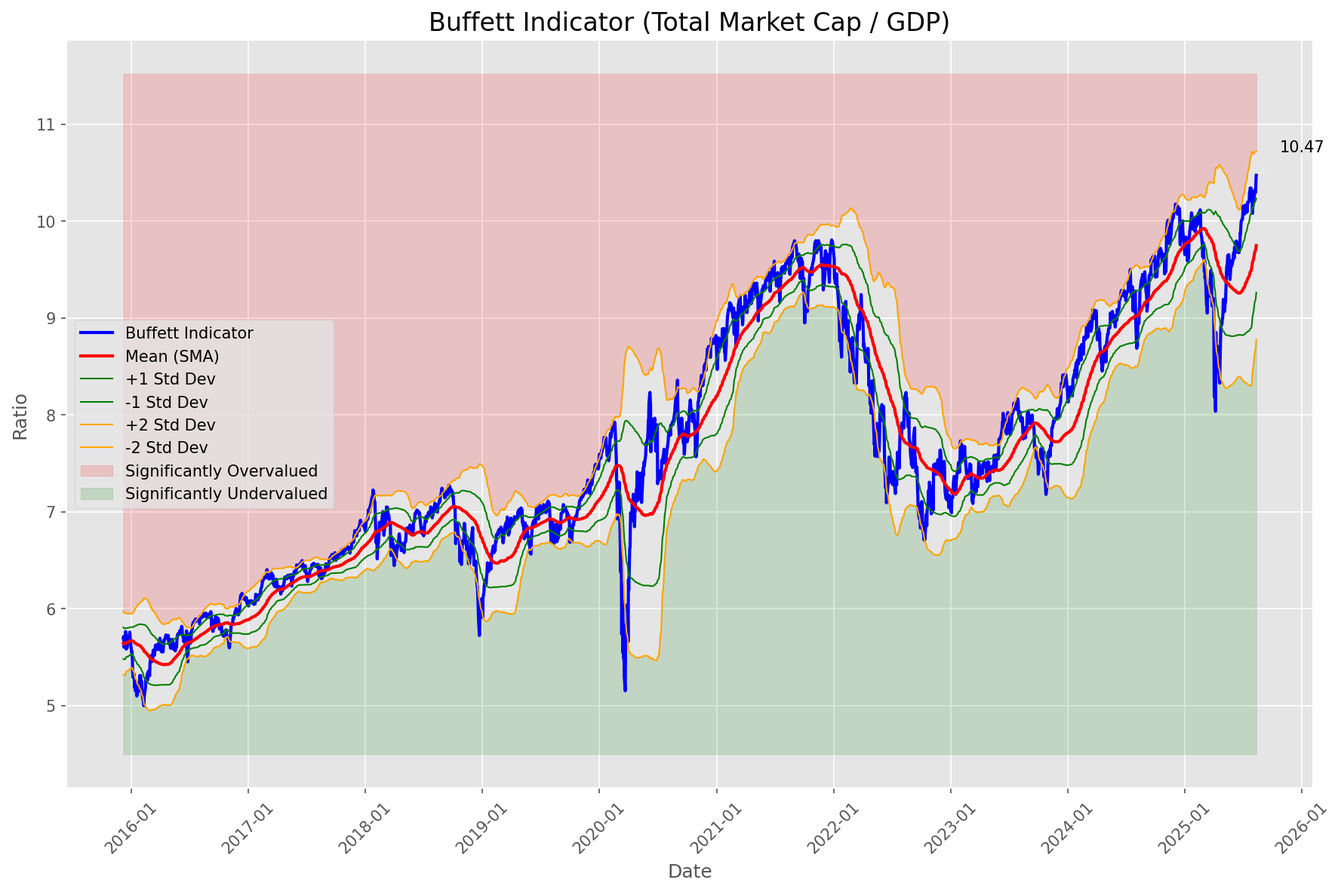
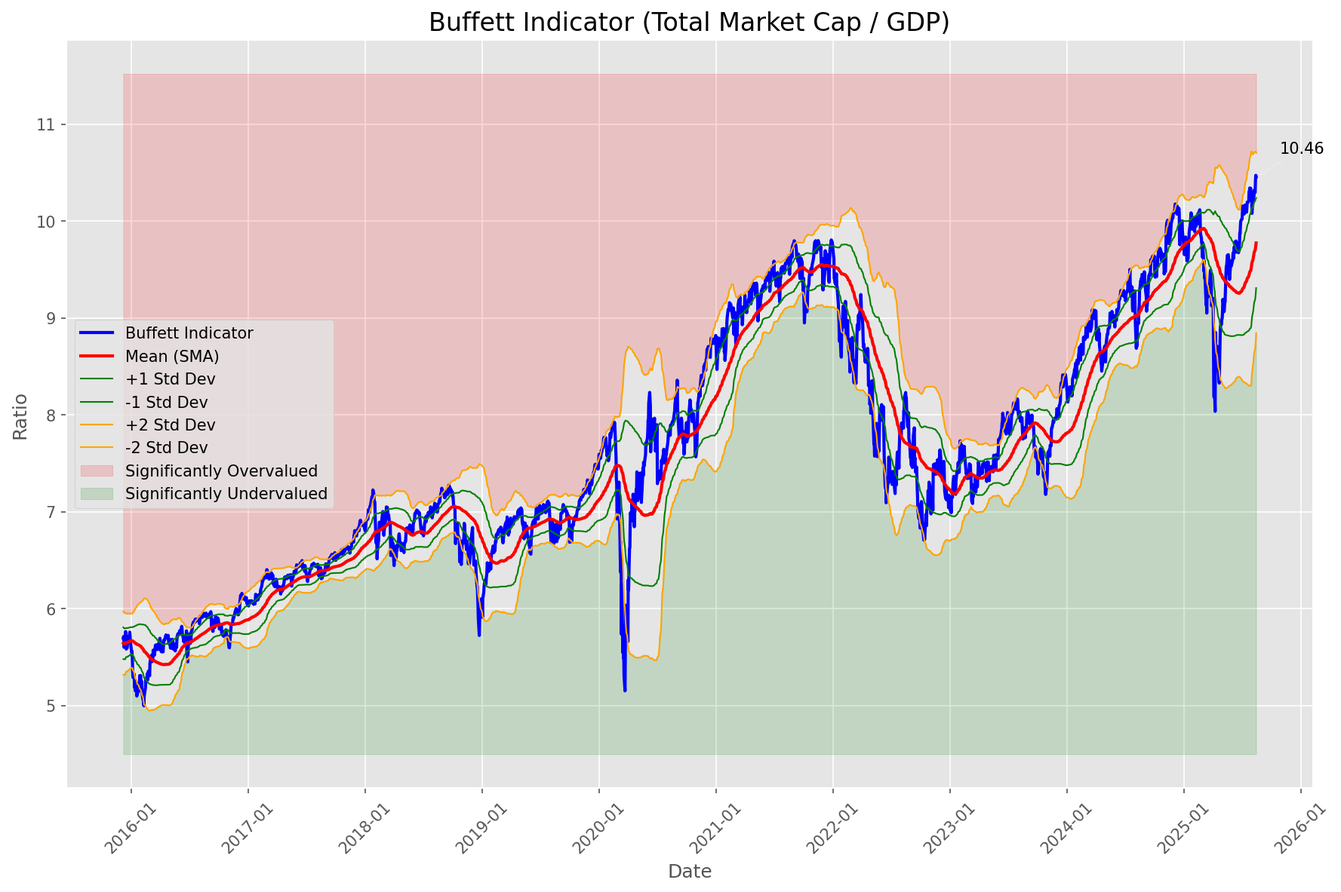
Add market report for 2025-08-15

diff --git a/oneil_relative_strength_report_2025-08-15.md b/oneil_relative_strength_report_2025-08-15.md
@@ -9,11 +9,11 @@
 | Metric | Value |
 |--------|-------|
 | **Market Valuation** | **Overvalued** |
-| **Current Ratio** | 10.46 |
-| **Historical Mean** | 9.75 |
-| **Standard Deviation** | 0.49 |
-| **Z-Score (StdDev from Mean)** | 1.49 |
-| **Total Market Cap** | $317.19 trillion |
+| **Current Ratio** | 10.44 |
+| **Historical Mean** | 9.77 |
+| **Standard Deviation** | 0.46 |
+| **Z-Score (StdDev from Mean)** | 1.47 |
+| **Total Market Cap** | $316.75 trillion |
 | **GDP** | $30.33 trillion |
 
 ## **Market Insights**
@@ -49,41 +49,41 @@ Based on William O'Neil's Relative Strength Methodology
 
 | ETF | Strength | RS Rating | Performance | Above Key MAs | Trend | Sector |
 |-----|----------|-----------|-------------|--------------|-------|--------|
+| [ARKW](https://www.tradingview.com/chart/?symbol=ARKW) | 97.0 | 94.0 | 33.98% | 10d ✓, 50d ✓, 200d ✓ | ↗ | Next Generation Internet |
+| [ARKK](https://www.tradingview.com/chart/?symbol=ARKK) | 97.0 | 94.0 | 35.71% | 10d ✓, 50d ✓, 200d ✓ | ↗ | Innovation |
 | [ARKF](https://www.tradingview.com/chart/?symbol=ARKF) | 96.5 | 93.0 | 32.02% | 10d ✓, 50d ✓, 200d ✓ | ↗ | Fintech Innovation |
-| [ARKW](https://www.tradingview.com/chart/?symbol=ARKW) | 96.5 | 93.0 | 33.98% | 10d ✓, 50d ✓, 200d ✓ | ↗ | Next Generation Internet |
-| [ARKK](https://www.tradingview.com/chart/?symbol=ARKK) | 96.5 | 93.0 | 33.86% | 10d ✓, 50d ✓, 200d ✓ | ↗ | Innovation |
-| [BLOK](https://www.tradingview.com/chart/?symbol=BLOK) | 94.5 | 89.0 | 26.21% | 10d ✓, 50d ✓, 200d ✓ | ↗ | Blockchain & Cryptocurrency |
-| [SLV](https://www.tradingview.com/chart/?symbol=SLV) | 91.0 | 82.0 | 17.95% | 10d ✓, 50d ✓, 200d ✓ | ↗ | Silver |
-| [XLK](https://www.tradingview.com/chart/?symbol=XLK) | 88.5 | 77.0 | 14.35% | 10d ✓, 50d ✓, 200d ✓ | ↗ | Technology |
-| [URA](https://www.tradingview.com/chart/?symbol=URA) | 87.6 | 95.0 | 38.65% | 10d ✗, 50d ✓, 200d ✓ | ↗ | Uranium |
-| [JETS](https://www.tradingview.com/chart/?symbol=JETS) | 86.5 | 73.0 | 12.29% | 10d ✓, 50d ✓, 200d ✓ | ↗ | Airlines |
-| [PAVE](https://www.tradingview.com/chart/?symbol=PAVE) | 85.0 | 70.0 | 11.21% | 10d ✓, 50d ✓, 200d ✓ | ↗ | Infrastructure |
-| [XLC](https://www.tradingview.com/chart/?symbol=XLC) | 84.0 | 68.0 | 10.44% | 10d ✓, 50d ✓, 200d ✓ | ↗ | Communications |
-| [AIQ](https://www.tradingview.com/chart/?symbol=AIQ) | 84.0 | 68.0 | 10.34% | 10d ✓, 50d ✓, 200d ✓ | ↗ | Artificial Intelligence & Technology |
-| [IYZ](https://www.tradingview.com/chart/?symbol=IYZ) | 82.5 | 65.0 | 9.34% | 10d ✓, 50d ✓, 200d ✓ | ↗ | Telecommunications |
-| [XLI](https://www.tradingview.com/chart/?symbol=XLI) | 79.5 | 59.0 | 7.49% | 10d ✓, 50d ✓, 200d ✓ | ↗ | Industrial |
-| [XLY](https://www.tradingview.com/chart/?symbol=XLY) | 77.0 | 54.0 | 6.24% | 10d ✓, 50d ✓, 200d ✓ | ↗ | Consumer Discretionary |
-| [KWEB](https://www.tradingview.com/chart/?symbol=KWEB) | 73.0 | 46.0 | 3.98% | 10d ✓, 50d ✓, 200d ✓ | ↗ | Chinese Internet |
-| [XLF](https://www.tradingview.com/chart/?symbol=XLF) | 73.0 | 46.0 | 4.06% | 10d ✓, 50d ✓, 200d ✓ | ↗ | Financial |
-| [SOXX](https://www.tradingview.com/chart/?symbol=SOXX) | 71.5 | 83.0 | 18.32% | 10d ✓, 50d ✓, 200d ✓ | ↘ | Semiconductors |
-| [ARKG](https://www.tradingview.com/chart/?symbol=ARKG) | 71.5 | 83.0 | 18.69% | 10d ✓, 50d ✓, 200d ✓ | ↘ | Genomics |
-| [XLU](https://www.tradingview.com/chart/?symbol=XLU) | 70.6 | 61.0 | 8.28% | 10d ✗, 50d ✓, 200d ✓ | ↗ | Utilities |
-| [ITB](https://www.tradingview.com/chart/?symbol=ITB) | 70.5 | 81.0 | 17.39% | 10d ✓, 50d ✓, 200d ✓ | ↘ | Home Construction |
-| [IBB](https://www.tradingview.com/chart/?symbol=IBB) | 70.5 | 81.0 | 17.41% | 10d ✓, 50d ✓, 200d ✓ | ↘ | Biotechnology |
-| [ICLN](https://www.tradingview.com/chart/?symbol=ICLN) | 56.0 | 52.0 | 5.65% | 10d ✓, 50d ✓, 200d ✓ | ↘ | Clean Energy |
-| [XLB](https://www.tradingview.com/chart/?symbol=XLB) | 55.5 | 51.0 | 5.55% | 10d ✓, 50d ✓, 200d ✓ | ↘ | Materials |
-| [GLD](https://www.tradingview.com/chart/?symbol=GLD) | 54.2 | 48.0 | 4.81% | 10d ✗, 50d ✗, 200d ✓ | ↗ | Gold |
-| [IYT](https://www.tradingview.com/chart/?symbol=IYT) | 52.5 | 45.0 | 3.80% | 10d ✓, 50d ✓, 200d ✓ | ↘ | Transportation |
-| [DBA](https://www.tradingview.com/chart/?symbol=DBA) | 52.3 | 25.0 | -1.44% | 10d ✓, 50d ✓, 200d ✗ | ↗ | Agriculture |
-| [XLP](https://www.tradingview.com/chart/?symbol=XLP) | 51.0 | 42.0 | 2.99% | 10d ✓, 50d ✓, 200d ✓ | ↘ | Consumer Staples |
-| [CIBR](https://www.tradingview.com/chart/?symbol=CIBR) | 49.7 | 39.0 | 2.03% | 10d ✗, 50d ✗, 200d ✓ | ↗ | Cybersecurity |
-| [XLV](https://www.tradingview.com/chart/?symbol=XLV) | 42.8 | 46.0 | 4.03% | 10d ✓, 50d ✓, 200d ✗ | ↘ | Healthcare |
-| [TLT](https://www.tradingview.com/chart/?symbol=TLT) | 29.4 | 39.0 | 1.99% | 10d ✗, 50d ✓, 200d ✗ | ↘ | Long-term Treasuries |
-| [XLE](https://www.tradingview.com/chart/?symbol=XLE) | 25.9 | 32.0 | 0.36% | 10d ✓, 50d ✗, 200d ✗ | ↘ | Energy |
-| [BIL](https://www.tradingview.com/chart/?symbol=BIL) | 24.4 | 29.0 | 0.03% | 10d ✓, 50d ✗, 200d ✗ | ↘ | Short-term Treasuries |
-| [UUP](https://www.tradingview.com/chart/?symbol=UUP) | 22.4 | 25.0 | -1.58% | 10d ✗, 50d ✓, 200d ✗ | ↘ | U.S. Dollar |
-| [IYR](https://www.tradingview.com/chart/?symbol=IYR) | 20.0 | 40.0 | 2.17% | 10d ✗, 50d ✗, 200d ✗ | ↘ | Real Estate |
-| [DBC](https://www.tradingview.com/chart/?symbol=DBC) | 19.0 | 38.0 | 1.68% | 10d ✗, 50d ✗, 200d ✗ | ↘ | Commodities |
+| [BLOK](https://www.tradingview.com/chart/?symbol=BLOK) | 95.0 | 90.0 | 26.21% | 10d ✓, 50d ✓, 200d ✓ | ↗ | Blockchain & Cryptocurrency |
+| [SOXX](https://www.tradingview.com/chart/?symbol=SOXX) | 90.5 | 81.0 | 17.35% | 10d ✓, 50d ✓, 200d ✓ | ↗ | Semiconductors |
+| [JETS](https://www.tradingview.com/chart/?symbol=JETS) | 88.0 | 76.0 | 13.84% | 10d ✓, 50d ✓, 200d ✓ | ↗ | Airlines |
+| [XLK](https://www.tradingview.com/chart/?symbol=XLK) | 88.0 | 76.0 | 13.55% | 10d ✓, 50d ✓, 200d ✓ | ↗ | Technology |
+| [URA](https://www.tradingview.com/chart/?symbol=URA) | 87.1 | 94.0 | 37.74% | 10d ✗, 50d ✓, 200d ✓ | ↗ | Uranium |
+| [PAVE](https://www.tradingview.com/chart/?symbol=PAVE) | 85.5 | 71.0 | 11.21% | 10d ✓, 50d ✓, 200d ✓ | ↗ | Infrastructure |
+| [XLC](https://www.tradingview.com/chart/?symbol=XLC) | 85.0 | 70.0 | 10.76% | 10d ✓, 50d ✓, 200d ✓ | ↗ | Communications |
+| [AIQ](https://www.tradingview.com/chart/?symbol=AIQ) | 85.0 | 70.0 | 10.99% | 10d ✓, 50d ✓, 200d ✓ | ↗ | Artificial Intelligence & Technology |
+| [IYZ](https://www.tradingview.com/chart/?symbol=IYZ) | 83.0 | 66.0 | 9.34% | 10d ✓, 50d ✓, 200d ✓ | ↗ | Telecommunications |
+| [KWEB](https://www.tradingview.com/chart/?symbol=KWEB) | 81.0 | 62.0 | 8.19% | 10d ✓, 50d ✓, 200d ✓ | ↗ | Chinese Internet |
+| [SLV](https://www.tradingview.com/chart/?symbol=SLV) | 80.1 | 80.0 | 16.14% | 10d ✗, 50d ✓, 200d ✓ | ↗ | Silver |
+| [XLY](https://www.tradingview.com/chart/?symbol=XLY) | 78.0 | 56.0 | 6.45% | 10d ✓, 50d ✓, 200d ✓ | ↗ | Consumer Discretionary |
+| [ARKG](https://www.tradingview.com/chart/?symbol=ARKG) | 72.0 | 84.0 | 19.09% | 10d ✓, 50d ✓, 200d ✓ | ↘ | Genomics |
+| [XLF](https://www.tradingview.com/chart/?symbol=XLF) | 72.0 | 44.0 | 2.86% | 10d ✓, 50d ✓, 200d ✓ | ↗ | Financial |
+| [ITB](https://www.tradingview.com/chart/?symbol=ITB) | 70.0 | 80.0 | 16.38% | 10d ✓, 50d ✓, 200d ✓ | ↘ | Home Construction |
+| [IBB](https://www.tradingview.com/chart/?symbol=IBB) | 69.5 | 79.0 | 15.58% | 10d ✓, 50d ✓, 200d ✓ | ↘ | Biotechnology |
+| [XLI](https://www.tradingview.com/chart/?symbol=XLI) | 67.1 | 54.0 | 5.90% | 10d ✗, 50d ✓, 200d ✓ | ↗ | Industrial |
+| [XLU](https://www.tradingview.com/chart/?symbol=XLU) | 66.1 | 52.0 | 5.26% | 10d ✗, 50d ✓, 200d ✓ | ↗ | Utilities |
+| [DBA](https://www.tradingview.com/chart/?symbol=DBA) | 62.0 | 24.0 | -2.63% | 10d ✓, 50d ✓, 200d ✓ | ↗ | Agriculture |
+| [ICLN](https://www.tradingview.com/chart/?symbol=ICLN) | 56.5 | 53.0 | 5.65% | 10d ✓, 50d ✓, 200d ✓ | ↘ | Clean Energy |
+| [XLB](https://www.tradingview.com/chart/?symbol=XLB) | 54.5 | 49.0 | 4.46% | 10d ✓, 50d ✓, 200d ✓ | ↘ | Materials |
+| [IYT](https://www.tradingview.com/chart/?symbol=IYT) | 53.5 | 47.0 | 3.80% | 10d ✓, 50d ✓, 200d ✓ | ↘ | Transportation |
+| [GLD](https://www.tradingview.com/chart/?symbol=GLD) | 52.7 | 45.0 | 3.22% | 10d ✗, 50d ✗, 200d ✓ | ↗ | Gold |
+| [CIBR](https://www.tradingview.com/chart/?symbol=CIBR) | 48.2 | 36.0 | 1.06% | 10d ✗, 50d ✗, 200d ✓ | ↗ | Cybersecurity |
+| [BIL](https://www.tradingview.com/chart/?symbol=BIL) | 45.5 | 31.0 | 0.06% | 10d ✓, 50d ✓, 200d ✓ | ↘ | Short-term Treasuries |
+| [XLV](https://www.tradingview.com/chart/?symbol=XLV) | 43.3 | 47.0 | 3.81% | 10d ✓, 50d ✓, 200d ✗ | ↘ | Healthcare |
+| [XLP](https://www.tradingview.com/chart/?symbol=XLP) | 37.6 | 35.0 | 0.80% | 10d ✗, 50d ✓, 200d ✓ | ↘ | Consumer Staples |
+| [TLT](https://www.tradingview.com/chart/?symbol=TLT) | 27.4 | 35.0 | 0.73% | 10d ✗, 50d ✓, 200d ✗ | ↘ | Long-term Treasuries |
+| [XLE](https://www.tradingview.com/chart/?symbol=XLE) | 24.9 | 30.0 | -0.11% | 10d ✓, 50d ✗, 200d ✗ | ↘ | Energy |
+| [UUP](https://www.tradingview.com/chart/?symbol=UUP) | 22.4 | 25.0 | -1.74% | 10d ✗, 50d ✓, 200d ✗ | ↘ | U.S. Dollar |
+| [DBC](https://www.tradingview.com/chart/?symbol=DBC) | 20.0 | 40.0 | 1.68% | 10d ✗, 50d ✗, 200d ✗ | ↘ | Commodities |
+| [IYR](https://www.tradingview.com/chart/?symbol=IYR) | 17.0 | 34.0 | 0.61% | 10d ✗, 50d ✗, 200d ✗ | ↘ | Real Estate |
 
 ### **Sector ETF Performance Interpretation**
 
@@ -98,168 +98,192 @@ This table shows the relative strength metrics for different market sectors base
 
 ### **Current Sector Leadership**
 
-The current market leadership is coming from the following sectors: **Fintech Innovation, Next Generation Internet, Innovation**.
+The current market leadership is coming from the following sectors: **Next Generation Internet, Innovation, Fintech Innovation**.
 
-The **Fintech Innovation** sector (represented by **ARKF**) is showing particularly strong relative strength with an RS rating of 93.0 and performance of 32.02% vs. the S&P 500. This sector is trading above its 10-day, 50-day, 200-day moving average(s). Investors should consider focusing on high RS stocks within these leading sectors for potential outperformance.
+The **Next Generation Internet** sector (represented by **ARKW**) is showing particularly strong relative strength with an RS rating of 94.0 and performance of 33.98% vs. the S&P 500. This sector is trading above its 10-day, 50-day, 200-day moving average(s). Investors should consider focusing on high RS stocks within these leading sectors for potential outperformance.
 
 ---
 
 ## **Buy Recommendations**
 
-The following 59 stocks show exceptional relative strength:
+The following 50 stocks show exceptional relative strength:
 
 | RS Rating | Buy Score | Current Price | Chart | Name | Ticker |
 |-----------|-----------|---------------|-------|------|--------|
-| 100 | 100 | $110.71 | [Chart](https://www.tradingview.com/chart/?symbol=HOOD) | Robinhood Markets, Inc. Class A Common Stock | HOOD |
-| 100 | 100 | $117.33 | [Chart](https://www.tradingview.com/chart/?symbol=CRDO) | Credo Technology Group Holding Ltd Ordinary Shares | CRDO |
-| 100 | 100 | $76.58 | [Chart](https://www.tradingview.com/chart/?symbol=MP) | MP Materials Corp. | MP |
-| 100 | 100 | $69.12 | [Chart](https://www.tradingview.com/chart/?symbol=KTOS) | Kratos Defense & Security Solutions, Inc. | KTOS |
-| 100 | 100 | $68.46 | [Chart](https://www.tradingview.com/chart/?symbol=NBIS) | Nebius Group N.V. Class A Ordinary Shares | NBIS |
+| 100 | 100 | $68.04 | [Chart](https://www.tradingview.com/chart/?symbol=KTOS) | Kratos Defense & Security Solutions, Inc. | KTOS |
+| 100 | 100 | $112.41 | [Chart](https://www.tradingview.com/chart/?symbol=HOOD) | Robinhood Markets, Inc. Class A Common Stock | HOOD |
+| 100 | 100 | $74.45 | [Chart](https://www.tradingview.com/chart/?symbol=MP) | MP Materials Corp. | MP |
+| 100 | 100 | $69.90 | [Chart](https://www.tradingview.com/chart/?symbol=NBIS) | Nebius Group N.V. Class A Ordinary Shares | NBIS |
 | 99 | 100 | $96.48 | [Chart](https://www.tradingview.com/chart/?symbol=RYTM) | Rhythm Pharmaceuticals, Inc. Common Stock | RYTM |
+| 99 | 100 | $174.68 | [Chart](https://www.tradingview.com/chart/?symbol=FUTU) | Futu Holdings Limited American Depositary Shares | FUTU |
+| 99 | 100 | $25.95 | [Chart](https://www.tradingview.com/chart/?symbol=TME) | Tencent Music Entertainment Group American Depositary Shares, each representing two Class A Ordinary Shares | TME |
 | 98 | 100 | $380.60 | [Chart](https://www.tradingview.com/chart/?symbol=TLN) | Talen Energy Corporation Common Stock | TLN |
-| 98 | 100 | $174.75 | [Chart](https://www.tradingview.com/chart/?symbol=FUTU) | Futu Holdings Limited American Depositary Shares | FUTU |
+| 97 | 100 | $67.23 | [Chart](https://www.tradingview.com/chart/?symbol=MRCY) | Mercury Systems Inc. | MRCY |
 | 97 | 100 | $193.60 | [Chart](https://www.tradingview.com/chart/?symbol=COOP) | Mr. Cooper Group Inc. Common Stock | COOP |
-| 97 | 100 | $60.36 | [Chart](https://www.tradingview.com/chart/?symbol=GH) | Guardant Health, Inc. Common Stock | GH |
-| 97 | 100 | $66.83 | [Chart](https://www.tradingview.com/chart/?symbol=MRCY) | Mercury Systems Inc. | MRCY |
-| 97 | 100 | $85.33 | [Chart](https://www.tradingview.com/chart/?symbol=LIF) | Life360, Inc. Common Stock | LIF |
-| 97 | 100 | $25.52 | [Chart](https://www.tradingview.com/chart/?symbol=TME) | Tencent Music Entertainment Group American Depositary Shares, each representing two Class A Ordinary Shares | TME |
-| 96 | 100 | $98.48 | [Chart](https://www.tradingview.com/chart/?symbol=EBAY) | eBay Inc | EBAY |
-| 96 | 100 | $24.53 | [Chart](https://www.tradingview.com/chart/?symbol=ACAD) | Acadia Pharmaceuticals Inc. | ACAD |
-| 95 | 100 | $31.41 | [Chart](https://www.tradingview.com/chart/?symbol=PAAS) | Pan American Silver Corp. | PAAS |
-| 95 | 100 | $57.42 | [Chart](https://www.tradingview.com/chart/?symbol=BTI) | British American Tobacco p.l.c. American Depositary Shares, American Depositary Shares, each representing one Ordinary Share | BTI |
-| 95 | 100 | $26.09 | [Chart](https://www.tradingview.com/chart/?symbol=LQDA) | Liquidia Corporation Common Stock | LQDA |
+| 96 | 100 | $24.98 | [Chart](https://www.tradingview.com/chart/?symbol=ACAD) | Acadia Pharmaceuticals Inc. | ACAD |
+| 96 | 100 | $84.34 | [Chart](https://www.tradingview.com/chart/?symbol=LIF) | Life360, Inc. Common Stock | LIF |
 | 95 | 100 | $99.34 | [Chart](https://www.tradingview.com/chart/?symbol=TPB) | Turning Point Brands, Inc. | TPB |
-| 95 | 100 | $181.02 | [Chart](https://www.tradingview.com/chart/?symbol=PLTR) | Palantir Technologies Inc. Class A Common Stock | PLTR |
 | 95 | 100 | $123.78 | [Chart](https://www.tradingview.com/chart/?symbol=PPLT) | abrdn Physical Platinum Shares ETF | PPLT |
+| 95 | 100 | $99.42 | [Chart](https://www.tradingview.com/chart/?symbol=EBAY) | eBay Inc | EBAY |
+| 94 | 100 | $160.01 | [Chart](https://www.tradingview.com/chart/?symbol=ARKW) | ARK Next Generation Internet ETF | ARKW |
+| 94 | 100 | $75.08 | [Chart](https://www.tradingview.com/chart/?symbol=WNS) | WNS (Holdings) Limited | WNS |
+| 94 | 100 | $53.82 | [Chart](https://www.tradingview.com/chart/?symbol=SIL) | Global X Silver Miners ETF (NEW) | SIL |
 | 94 | 100 | $30.63 | [Chart](https://www.tradingview.com/chart/?symbol=OR) | OR Royalties Inc. | OR |
-| 94 | 100 | $74.95 | [Chart](https://www.tradingview.com/chart/?symbol=WNS) | WNS (Holdings) Limited | WNS |
-| 94 | 100 | $53.80 | [Chart](https://www.tradingview.com/chart/?symbol=SIL) | Global X Silver Miners ETF (NEW) | SIL |
-| 93 | 100 | $160.01 | [Chart](https://www.tradingview.com/chart/?symbol=ARKW) | ARK Next Generation Internet ETF | ARKW |
-| 93 | 100 | $36.78 | [Chart](https://www.tradingview.com/chart/?symbol=DB) | Deutsche Bank Aktiengesellschaft | DB |
+| 94 | 100 | $31.39 | [Chart](https://www.tradingview.com/chart/?symbol=PAAS) | Pan American Silver Corp. | PAAS |
+| 94 | 100 | $25.98 | [Chart](https://www.tradingview.com/chart/?symbol=LQDA) | Liquidia Corporation Common Stock | LQDA |
 | 93 | 100 | $54.51 | [Chart](https://www.tradingview.com/chart/?symbol=ARKF) | ARK Fintech Innovation ETF | ARKF |
-| 93 | 100 | $31.18 | [Chart](https://www.tradingview.com/chart/?symbol=SRAD) | Sportradar Group AG Class A Ordinary Shares | SRAD |
-| 92 | 100 | $25.81 | [Chart](https://www.tradingview.com/chart/?symbol=TFPM) | Triple Flag Precious Metals Corp. | TFPM |
-| 91 | 100 | $22.85 | [Chart](https://www.tradingview.com/chart/?symbol=MAG) | MAG Silver Corp. | MAG |
-| 91 | 100 | $60.02 | [Chart](https://www.tradingview.com/chart/?symbol=VIK) | Viking Holdings Ltd | VIK |
-| 90 | 100 | $53.94 | [Chart](https://www.tradingview.com/chart/?symbol=FHI) | Federated Hermes, Inc. | FHI |
-| 90 | 100 | $95.46 | [Chart](https://www.tradingview.com/chart/?symbol=C) | Citigroup Inc. | C |
-| 88 | 100 | $269.75 | [Chart](https://www.tradingview.com/chart/?symbol=IDCC) | InterDigital, Inc. | IDCC |
-| 88 | 100 | $163.82 | [Chart](https://www.tradingview.com/chart/?symbol=VSEC) | VSE Corp | VSEC |
-| 89 | 99 | $67.15 | [Chart](https://www.tradingview.com/chart/?symbol=MAIN) | Main Street Capital Corporation | MAIN |
+| 93 | 100 | $25.81 | [Chart](https://www.tradingview.com/chart/?symbol=TFPM) | Triple Flag Precious Metals Corp. | TFPM |
+| 92 | 100 | $60.35 | [Chart](https://www.tradingview.com/chart/?symbol=VIK) | Viking Holdings Ltd | VIK |
+| 92 | 100 | $36.69 | [Chart](https://www.tradingview.com/chart/?symbol=DB) | Deutsche Bank Aktiengesellschaft | DB |
+| 92 | 100 | $30.79 | [Chart](https://www.tradingview.com/chart/?symbol=SRAD) | Sportradar Group AG Class A Ordinary Shares | SRAD |
+| 91 | 100 | $22.88 | [Chart](https://www.tradingview.com/chart/?symbol=MAG) | MAG Silver Corp. | MAG |
+| 90 | 100 | $67.15 | [Chart](https://www.tradingview.com/chart/?symbol=MAIN) | Main Street Capital Corporation | MAIN |
+| 89 | 100 | $269.75 | [Chart](https://www.tradingview.com/chart/?symbol=IDCC) | InterDigital, Inc. | IDCC |
+| 89 | 100 | $38.37 | [Chart](https://www.tradingview.com/chart/?symbol=AS) | Amer Sports, Inc. | AS |
+| 88 | 100 | $161.98 | [Chart](https://www.tradingview.com/chart/?symbol=VSEC) | VSE Corp | VSEC |
 | 88 | 98 | $194.16 | [Chart](https://www.tradingview.com/chart/?symbol=AWI) | Armstrong World Industries, Inc. | AWI |
-| 88 | 98 | $312.30 | [Chart](https://www.tradingview.com/chart/?symbol=RCL) | Royal Caribbean Group | RCL |
+| 88 | 98 | $94.28 | [Chart](https://www.tradingview.com/chart/?symbol=C) | Citigroup Inc. | C |
+| 88 | 98 | $53.25 | [Chart](https://www.tradingview.com/chart/?symbol=FHI) | Federated Hermes, Inc. | FHI |
 | 86 | 98 | $93.18 | [Chart](https://www.tradingview.com/chart/?symbol=LLYVK) | Liberty Media Corporation Series C Liberty Live Common Stock | LLYVK |
-| 85 | 98 | $119.02 | [Chart](https://www.tradingview.com/chart/?symbol=GILD) | Gilead Sciences Inc | GILD |
 | 85 | 98 | $43.74 | [Chart](https://www.tradingview.com/chart/?symbol=LTM) | LATAM Airlines Group S.A. American Depositary Shares (each representing two thousand (2,000) shares of Common Stock) | LTM |
-| 84 | 98 | $20.55 | [Chart](https://www.tradingview.com/chart/?symbol=BCS) | Barclays PLC | BCS |
-| 85 | 97 | $37.92 | [Chart](https://www.tradingview.com/chart/?symbol=AS) | Amer Sports, Inc. | AS |
 | 85 | 96 | $250.36 | [Chart](https://www.tradingview.com/chart/?symbol=BAP) | Credicorp LTD | BAP |
-| 84 | 96 | $62.71 | [Chart](https://www.tradingview.com/chart/?symbol=SHLD) | Global X Defense Tech ETF | SHLD |
-| 82 | 96 | $40.39 | [Chart](https://www.tradingview.com/chart/?symbol=AHR) | American Healthcare REIT, Inc. | AHR |
-| 85 | 95 | $48.69 | [Chart](https://www.tradingview.com/chart/?symbol=FAST) | Fastenal Co | FAST |
-| 82 | 95 | $191.00 | [Chart](https://www.tradingview.com/chart/?symbol=TKO) | TKO Group Holdings, Inc. | TKO |
-| 84 | 94 | $12.89 | [Chart](https://www.tradingview.com/chart/?symbol=PSLV) | Sprott Physical Silver Trust | PSLV |
+| 83 | 96 | $118.46 | [Chart](https://www.tradingview.com/chart/?symbol=GILD) | Gilead Sciences Inc | GILD |
+| 83 | 95 | $15.99 | [Chart](https://www.tradingview.com/chart/?symbol=MUFG) | Mitsubishi UFJ Financial Group, Inc. | MUFG |
+| 82 | 95 | $190.28 | [Chart](https://www.tradingview.com/chart/?symbol=TKO) | TKO Group Holdings, Inc. | TKO |
+| 81 | 95 | $20.27 | [Chart](https://www.tradingview.com/chart/?symbol=BCS) | Barclays PLC | BCS |
 | 84 | 94 | $31.94 | [Chart](https://www.tradingview.com/chart/?symbol=IIIV) | i3 Verticals, Inc. Class A Common Stock | IIIV |
-| 83 | 94 | $24.96 | [Chart](https://www.tradingview.com/chart/?symbol=ING) | ING Groep N.V. American Depositary Shares | ING |
-| 82 | 93 | $36.20 | [Chart](https://www.tradingview.com/chart/?symbol=SIVR) | abrdn Physical Silver Shares ETF | SIVR |
-| 82 | 93 | $34.50 | [Chart](https://www.tradingview.com/chart/?symbol=SLV) | iShares Silver Trust | SLV |
+| 83 | 94 | $25.00 | [Chart](https://www.tradingview.com/chart/?symbol=ING) | ING Groep N.V. American Depositary Shares | ING |
+| 82 | 94 | $418.37 | [Chart](https://www.tradingview.com/chart/?symbol=CYBR) | CyberArk Software Ltd. | CYBR |
+| 83 | 93 | $434.34 | [Chart](https://www.tradingview.com/chart/?symbol=APP) | Applovin Corporation Class A Common Stock | APP |
 | 82 | 93 | $28.96 | [Chart](https://www.tradingview.com/chart/?symbol=CPS) | Cooper-Standard Automotive Inc. | CPS |
-| 81 | 93 | $414.53 | [Chart](https://www.tradingview.com/chart/?symbol=CYBR) | CyberArk Software Ltd. | CYBR |
 | 81 | 93 | $63.37 | [Chart](https://www.tradingview.com/chart/?symbol=CAKE) | Cheesecake Factory (The) | CAKE |
 | 80 | 93 | $48.42 | [Chart](https://www.tradingview.com/chart/?symbol=EWP) | iShares MSCI Spain ETF | EWP |
-| 80 | 92 | $15.34 | [Chart](https://www.tradingview.com/chart/?symbol=MUFG) | Mitsubishi UFJ Financial Group, Inc. | MUFG |
-| 80 | 92 | $65.55 | [Chart](https://www.tradingview.com/chart/?symbol=MO) | Altria Group, Inc. | MO |
+| 80 | 93 | $742.10 | [Chart](https://www.tradingview.com/chart/?symbol=SPOT) | Spotify Technology S.A. | SPOT |
+| 80 | 91 | $74.52 | [Chart](https://www.tradingview.com/chart/?symbol=TD) | Toronto Dominion Bank | TD |
 
 ---
 
 
 ## **Sell Recommendations**
 
-The following 81 stocks show deteriorating relative strength:
+The following 114 stocks show deteriorating relative strength:
 
 | RS Rating | Sell Score | Current Price | Chart | Name | Ticker |
 |-----------|------------|---------------|-------|------|--------|
-| 1 | 100 | $11.61 | [Chart](https://www.tradingview.com/chart/?symbol=NVDS) | Investment Managers Series Trust II Tradr 1.5X Short NVDA Daily ETF | NVDS |
-| 1 | 100 | $195.19 | [Chart](https://www.tradingview.com/chart/?symbol=LULU) | lululemon athletica inc. | LULU |
-| 2 | 100 | $22.72 | [Chart](https://www.tradingview.com/chart/?symbol=TECS) | Direxion Daily Technology Bear 3x Shares | TECS |
-| 3 | 100 | $26.29 | [Chart](https://www.tradingview.com/chart/?symbol=CRI) | Carter's Inc. | CRI |
+| 1 | 100 | $197.62 | [Chart](https://www.tradingview.com/chart/?symbol=LULU) | lululemon athletica inc. | LULU |
+| 1 | 100 | $11.78 | [Chart](https://www.tradingview.com/chart/?symbol=NVDS) | Investment Managers Series Trust II Tradr 1.5X Short NVDA Daily ETF | NVDS |
+| 1 | 100 | $11.51 | [Chart](https://www.tradingview.com/chart/?symbol=NVCR) | NovoCure Limited Ordinary Shares | NVCR |
+| 2 | 100 | $23.16 | [Chart](https://www.tradingview.com/chart/?symbol=TECS) | Direxion Daily Technology Bear 3x Shares | TECS |
+| 2 | 100 | $26.14 | [Chart](https://www.tradingview.com/chart/?symbol=CRI) | Carter's Inc. | CRI |
 | 3 | 100 | $23.15 | [Chart](https://www.tradingview.com/chart/?symbol=ZSL) | ProShares UltraShort Silver | ZSL |
-| 5 | 100 | $20.88 | [Chart](https://www.tradingview.com/chart/?symbol=GAP) | The Gap, Inc. | GAP |
-| 6 | 100 | $39.59 | [Chart](https://www.tradingview.com/chart/?symbol=SDOW) | ProShares UltraPro Short Dow 30 | SDOW |
-| 6 | 100 | $76.42 | [Chart](https://www.tradingview.com/chart/?symbol=ESTC) | Elastic N.V. | ESTC |
-| 6 | 100 | $16.57 | [Chart](https://www.tradingview.com/chart/?symbol=S) | SentinelOne, Inc. | S |
-| 8 | 100 | $12.49 | [Chart](https://www.tradingview.com/chart/?symbol=ARDT) | Ardent Health, Inc. | ARDT |
-| 8 | 100 | $28.71 | [Chart](https://www.tradingview.com/chart/?symbol=BBWI) | Bath & Body Works, Inc. | BBWI |
-| 10 | 100 | $23.57 | [Chart](https://www.tradingview.com/chart/?symbol=DXD) | ProShares UltraShort Dow 30 | DXD |
-| 11 | 100 | $12.01 | [Chart](https://www.tradingview.com/chart/?symbol=NU) | Nu Holdings Ltd. | NU |
-| 4 | 99 | $40.95 | [Chart](https://www.tradingview.com/chart/?symbol=GTLB) | GitLab Inc. Class A Common Stock | GTLB |
-| 6 | 99 | $10.73 | [Chart](https://www.tradingview.com/chart/?symbol=PATH) | UiPath, Inc. | PATH |
+| 3 | 100 | $47.21 | [Chart](https://www.tradingview.com/chart/?symbol=CPRT) | Copart Inc | CPRT |
+| 4 | 100 | $20.77 | [Chart](https://www.tradingview.com/chart/?symbol=GAP) | The Gap, Inc. | GAP |
+| 5 | 100 | $12.32 | [Chart](https://www.tradingview.com/chart/?symbol=ARDT) | Ardent Health, Inc. | ARDT |
+| 6 | 100 | $10.86 | [Chart](https://www.tradingview.com/chart/?symbol=PATH) | UiPath, Inc. | PATH |
+| 7 | 100 | $77.45 | [Chart](https://www.tradingview.com/chart/?symbol=ESTC) | Elastic N.V. | ESTC |
+| 7 | 100 | $39.40 | [Chart](https://www.tradingview.com/chart/?symbol=SDOW) | ProShares UltraPro Short Dow 30 | SDOW |
+| 7 | 100 | $28.72 | [Chart](https://www.tradingview.com/chart/?symbol=BBWI) | Bath & Body Works, Inc. | BBWI |
+| 7 | 100 | $16.78 | [Chart](https://www.tradingview.com/chart/?symbol=S) | SentinelOne, Inc. | S |
+| 7 | 100 | $25.46 | [Chart](https://www.tradingview.com/chart/?symbol=CZR) | Caesars Entertainment, Inc. Common Stock | CZR |
+| 11 | 100 | $23.47 | [Chart](https://www.tradingview.com/chart/?symbol=DXD) | ProShares UltraShort Dow 30 | DXD |
+| 13 | 100 | $38.12 | [Chart](https://www.tradingview.com/chart/?symbol=UDR) | UDR, Inc. | UDR |
+| 1 | 99 | $13.51 | [Chart](https://www.tradingview.com/chart/?symbol=UVXY) | ProShares Ultra VIX Short-Term Futures ETF | UVXY |
+| 2 | 99 | $17.75 | [Chart](https://www.tradingview.com/chart/?symbol=DJT) | Trump Media & Technology Group Corp. Common Stock | DJT |
+| 5 | 99 | $23.23 | [Chart](https://www.tradingview.com/chart/?symbol=QID) | ProShares UltraShort QQQ | QID |
+| 6 | 99 | $42.56 | [Chart](https://www.tradingview.com/chart/?symbol=GTLB) | GitLab Inc. Class A Common Stock | GTLB |
 | 16 | 99 | $14.12 | [Chart](https://www.tradingview.com/chart/?symbol=VRE) | Veris Residential, Inc. | VRE |
-| 3 | 98 | $46.86 | [Chart](https://www.tradingview.com/chart/?symbol=CPRT) | Copart Inc | CPRT |
+| 9 | 98 | $74.86 | [Chart](https://www.tradingview.com/chart/?symbol=OKE) | Oneok, Inc. | OKE |
 | 11 | 98 | $16.48 | [Chart](https://www.tradingview.com/chart/?symbol=BTAL) | AGF U.S. Market Neutral Anti-Beta Fund | BTAL |
-| 20 | 98 | $48.06 | [Chart](https://www.tradingview.com/chart/?symbol=EDU) | New Oriental Education and Technology Group, Inc. American Depositary Shares (each representing ten (10) Common Shares) | EDU |
-| 14 | 97 | $38.34 | [Chart](https://www.tradingview.com/chart/?symbol=SH) | ProShares Short S&P500 | SH |
+| 10 | 97 | $28.79 | [Chart](https://www.tradingview.com/chart/?symbol=CNX) | CNX Resources Corporation | CNX |
+| 12 | 97 | $63.76 | [Chart](https://www.tradingview.com/chart/?symbol=EQR) | Equity Residential | EQR |
+| 12 | 97 | $32.35 | [Chart](https://www.tradingview.com/chart/?symbol=PSQ) | ProShares Short QQQ | PSQ |
+| 13 | 97 | $70.67 | [Chart](https://www.tradingview.com/chart/?symbol=EXPO) | Exponent Inc | EXPO |
+| 15 | 97 | $38.40 | [Chart](https://www.tradingview.com/chart/?symbol=SH) | ProShares Short S&P500 | SH |
 | 16 | 97 | $16.51 | [Chart](https://www.tradingview.com/chart/?symbol=CTO) | CTO Realty Growth, Inc. | CTO |
-| 14 | 96 | $70.67 | [Chart](https://www.tradingview.com/chart/?symbol=EXPO) | Exponent Inc | EXPO |
-| 7 | 95 | $30.94 | [Chart](https://www.tradingview.com/chart/?symbol=DAR) | DARLING INGREDIENTS INC. | DAR |
-| 9 | 95 | $74.80 | [Chart](https://www.tradingview.com/chart/?symbol=OKE) | Oneok, Inc. | OKE |
-| 12 | 95 | $32.29 | [Chart](https://www.tradingview.com/chart/?symbol=PSQ) | ProShares Short QQQ | PSQ |
-| 15 | 95 | $38.07 | [Chart](https://www.tradingview.com/chart/?symbol=UDR) | UDR, Inc. | UDR |
-| 8 | 94 | $10.62 | [Chart](https://www.tradingview.com/chart/?symbol=DVAX) | Dynavax Technologies Corporation | DVAX |
+| 10 | 96 | $31.01 | [Chart](https://www.tradingview.com/chart/?symbol=DAR) | DARLING INGREDIENTS INC. | DAR |
+| 6 | 95 | $239.04 | [Chart](https://www.tradingview.com/chart/?symbol=CRM) | Salesforce, Inc. | CRM |
+| 13 | 95 | $34.62 | [Chart](https://www.tradingview.com/chart/?symbol=AMH) | AMERICAN HOMES 4 RENT | AMH |
+| 14 | 95 | $10.74 | [Chart](https://www.tradingview.com/chart/?symbol=DVAX) | Dynavax Technologies Corporation | DVAX |
+| 14 | 95 | $42.56 | [Chart](https://www.tradingview.com/chart/?symbol=SW) | Smurfit Westrock plc | SW |
+| 16 | 95 | $12.14 | [Chart](https://www.tradingview.com/chart/?symbol=PMT) | PennyMac Mortgage Investment Trust | PMT |
+| 13 | 94 | $17.32 | [Chart](https://www.tradingview.com/chart/?symbol=IRT) | Independence Realty Trust Inc. | IRT |
+| 15 | 94 | $91.58 | [Chart](https://www.tradingview.com/chart/?symbol=IRM) | Iron Mountain Inc. | IRM |
 | 17 | 94 | $37.59 | [Chart](https://www.tradingview.com/chart/?symbol=KSA) | iShares MSCI Saudi Arabia ETF | KSA |
+| 7 | 93 | $48.78 | [Chart](https://www.tradingview.com/chart/?symbol=BIRK) | Birkenstock Holding plc | BIRK |
 | 10 | 93 | $85.22 | [Chart](https://www.tradingview.com/chart/?symbol=MMSI) | Merit Medical Systems Inc | MMSI |
-| 11 | 93 | $28.72 | [Chart](https://www.tradingview.com/chart/?symbol=CNX) | CNX Resources Corporation | CNX |
-| 22 | 93 | $12.18 | [Chart](https://www.tradingview.com/chart/?symbol=WSR) | Whitestone REIT | WSR |
 | 9 | 92 | $15.09 | [Chart](https://www.tradingview.com/chart/?symbol=MCS) | The Marcus Corporation | MCS |
-| 17 | 92 | $25.19 | [Chart](https://www.tradingview.com/chart/?symbol=DOG) | ProShares Short Dow30 | DOG |
-| 11 | 91 | $31.58 | [Chart](https://www.tradingview.com/chart/?symbol=JD) | JD.com, Inc. | JD |
-| 13 | 91 | $775.37 | [Chart](https://www.tradingview.com/chart/?symbol=EQIX) | Equinix, Inc. Common Stock REIT | EQIX |
-| 15 | 91 | $63.51 | [Chart](https://www.tradingview.com/chart/?symbol=EQR) | Equity Residential | EQR |
+| 12 | 92 | $780.43 | [Chart](https://www.tradingview.com/chart/?symbol=EQIX) | Equinix, Inc. Common Stock REIT | EQIX |
+| 17 | 92 | $28.37 | [Chart](https://www.tradingview.com/chart/?symbol=HRL) | Hormel Foods Corporation | HRL |
+| 18 | 92 | $25.16 | [Chart](https://www.tradingview.com/chart/?symbol=DOG) | ProShares Short Dow30 | DOG |
+| 23 | 92 | $12.18 | [Chart](https://www.tradingview.com/chart/?symbol=WSR) | Whitestone REIT | WSR |
+| 27 | 92 | $48.26 | [Chart](https://www.tradingview.com/chart/?symbol=EDU) | New Oriental Education and Technology Group, Inc. American Depositary Shares (each representing ten (10) Common Shares) | EDU |
+| 15 | 91 | $21.41 | [Chart](https://www.tradingview.com/chart/?symbol=TDC) | TERADATA CORPORATION | TDC |
+| 17 | 91 | $33.17 | [Chart](https://www.tradingview.com/chart/?symbol=CMCSA) | Comcast Corp | CMCSA |
 | 19 | 91 | $25.38 | [Chart](https://www.tradingview.com/chart/?symbol=FCPT) | Four Corners Property Trust, Inc. | FCPT |
-| 15 | 90 | $34.59 | [Chart](https://www.tradingview.com/chart/?symbol=AMH) | AMERICAN HOMES 4 RENT | AMH |
+| 10 | 90 | $21.04 | [Chart](https://www.tradingview.com/chart/?symbol=KVUE) | Kenvue Inc. | KVUE |
+| 16 | 90 | $33.12 | [Chart](https://www.tradingview.com/chart/?symbol=SLB) | Schlumberger Limited | SLB |
+| 16 | 90 | $69.77 | [Chart](https://www.tradingview.com/chart/?symbol=MKC) | McCormick & Company, Incorporated Non-VTG CS | MKC |
 | 17 | 90 | $13.01 | [Chart](https://www.tradingview.com/chart/?symbol=CCRN) | Cross Country Healthcare Inc | CCRN |
-| 17 | 90 | $43.72 | [Chart](https://www.tradingview.com/chart/?symbol=SW) | Smurfit Westrock plc | SW |
-| 21 | 90 | $10.15 | [Chart](https://www.tradingview.com/chart/?symbol=NMZ) | Nuveen Municipal High Income Opportunity Fund | NMZ |
-| 22 | 90 | $37.59 | [Chart](https://www.tradingview.com/chart/?symbol=FLIN) | Franklin FTSE India ETF | FLIN |
-| 12 | 89 | $94.33 | [Chart](https://www.tradingview.com/chart/?symbol=MMYT) | MakeMyTrip Limited | MMYT |
+| 19 | 90 | $154.43 | [Chart](https://www.tradingview.com/chart/?symbol=PG) | Procter & Gamble Company | PG |
+| 18 | 89 | $275.95 | [Chart](https://www.tradingview.com/chart/?symbol=CB) | Chubb Limited | CB |
 | 18 | 89 | $37.05 | [Chart](https://www.tradingview.com/chart/?symbol=VNO) | Vornado Realty Trust | VNO |
 | 18 | 89 | $280.89 | [Chart](https://www.tradingview.com/chart/?symbol=PSA) | Public Storage | PSA |
-| 19 | 89 | $12.18 | [Chart](https://www.tradingview.com/chart/?symbol=PMT) | PennyMac Mortgage Investment Trust | PMT |
+| 18 | 89 | $84.81 | [Chart](https://www.tradingview.com/chart/?symbol=CL) | Colgate-Palmolive Company | CL |
+| 18 | 89 | $12.22 | [Chart](https://www.tradingview.com/chart/?symbol=NOV) | NOV Inc. | NOV |
 | 20 | 89 | $13.93 | [Chart](https://www.tradingview.com/chart/?symbol=EWTX) | Edgewise Therapeutics, Inc. Common Stock | EWTX |
-| 16 | 88 | $17.32 | [Chart](https://www.tradingview.com/chart/?symbol=IRT) | Independence Realty Trust Inc. | IRT |
+| 22 | 89 | $10.15 | [Chart](https://www.tradingview.com/chart/?symbol=NMZ) | Nuveen Municipal High Income Opportunity Fund | NMZ |
+| 23 | 89 | $37.59 | [Chart](https://www.tradingview.com/chart/?symbol=FLIN) | Franklin FTSE India ETF | FLIN |
+| 14 | 88 | $31.29 | [Chart](https://www.tradingview.com/chart/?symbol=JD) | JD.com, Inc. | JD |
+| 20 | 88 | $86.99 | [Chart](https://www.tradingview.com/chart/?symbol=BCC) | Boise Cascade Company | BCC |
 | 13 | 87 | $320.23 | [Chart](https://www.tradingview.com/chart/?symbol=CPAY) | Corpay, Inc. | CPAY |
-| 18 | 87 | $91.40 | [Chart](https://www.tradingview.com/chart/?symbol=IRM) | Iron Mountain Inc. | IRM |
-| 19 | 87 | $32.90 | [Chart](https://www.tradingview.com/chart/?symbol=CMCSA) | Comcast Corp | CMCSA |
+| 18 | 87 | $29.88 | [Chart](https://www.tradingview.com/chart/?symbol=SEE) | Sealed Air Corp. | SEE |
+| 20 | 87 | $44.54 | [Chart](https://www.tradingview.com/chart/?symbol=EPI) | WisdomTree India Earnings Fund ETF | EPI |
 | 20 | 86 | $13.15 | [Chart](https://www.tradingview.com/chart/?symbol=NAVI) | Navient Corporation | NAVI |
-| 21 | 86 | $48.52 | [Chart](https://www.tradingview.com/chart/?symbol=FR) | First Industrial Realty Trust, Inc. | FR |
+| 25 | 86 | $26.01 | [Chart](https://www.tradingview.com/chart/?symbol=WY) | Weyerhaeuser Company | WY |
 | 21 | 85 | $161.90 | [Chart](https://www.tradingview.com/chart/?symbol=EGP) | EastGroup Properties Inc. | EGP |
-| 22 | 85 | $28.30 | [Chart](https://www.tradingview.com/chart/?symbol=HRL) | Hormel Foods Corporation | HRL |
-| 24 | 85 | $36.70 | [Chart](https://www.tradingview.com/chart/?symbol=PBA) | PEMBINA PIPELINE CORPORATION | PBA |
-| 22 | 84 | $153.74 | [Chart](https://www.tradingview.com/chart/?symbol=PG) | Procter & Gamble Company | PG |
-| 25 | 84 | $18.23 | [Chart](https://www.tradingview.com/chart/?symbol=EBF) | Ennis, Inc. | EBF |
-| 17 | 83 | $126.39 | [Chart](https://www.tradingview.com/chart/?symbol=INGR) | Ingredion Incorporated | INGR |
-| 21 | 83 | $44.37 | [Chart](https://www.tradingview.com/chart/?symbol=EPI) | WisdomTree India Earnings Fund ETF | EPI |
-| 25 | 83 | $105.85 | [Chart](https://www.tradingview.com/chart/?symbol=PLD) | PROLOGIS, INC. | PLD |
-| 24 | 82 | $275.74 | [Chart](https://www.tradingview.com/chart/?symbol=CB) | Chubb Limited | CB |
-| 21 | 80 | $11.91 | [Chart](https://www.tradingview.com/chart/?symbol=CEPU) | Central Puerto S.A. American Depositary Shares (each represents ten Common Shares) | CEPU |
-| 25 | 80 | $122.73 | [Chart](https://www.tradingview.com/chart/?symbol=PSX) | PHILLIPS 66 | PSX |
-| 22 | 79 | $179.40 | [Chart](https://www.tradingview.com/chart/?symbol=DOV) | Dover Corporation | DOV |
-| 28 | 79 | $19.93 | [Chart](https://www.tradingview.com/chart/?symbol=STWD) | STARWOOD PROPERTY TRUST, INC. | STWD |
-| 28 | 79 | $72.16 | [Chart](https://www.tradingview.com/chart/?symbol=ADC) | Agree Realty Corporation | ADC |
-| 28 | 79 | $14.80 | [Chart](https://www.tradingview.com/chart/?symbol=GBDC) | Golub Capital BDC, Inc. | GBDC |
-| 23 | 78 | $216.91 | [Chart](https://www.tradingview.com/chart/?symbol=SBAC) | SBA Communications Corp | SBAC |
-| 31 | 77 | $56.17 | [Chart](https://www.tradingview.com/chart/?symbol=USRT) | iShares Core U.S. REIT ETF | USRT |
-| 29 | 76 | $91.58 | [Chart](https://www.tradingview.com/chart/?symbol=BIL) | SPDR Bloomberg 1-3 Month T-Bill ETF | BIL |
-| 32 | 76 | $17.04 | [Chart](https://www.tradingview.com/chart/?symbol=DOC) | Healthpeak Properties, Inc. | DOC |
-| 38 | 75 | $14.50 | [Chart](https://www.tradingview.com/chart/?symbol=MNR) | Mach Natural Resources LP Common Units representing Limited Partner Interests | MNR |
-| 34 | 73 | $12.15 | [Chart](https://www.tradingview.com/chart/?symbol=RQI) | COHEN & STEERS QUALITY INCOME REALTY FUND, INC. COMMON SHARES | RQI |
-| 35 | 70 | $135.82 | [Chart](https://www.tradingview.com/chart/?symbol=VLO) | Valero Energy Corporation | VLO |
-| 31 | 69 | $85.29 | [Chart](https://www.tradingview.com/chart/?symbol=GGG) | Graco Inc | GGG |
-| 33 | 69 | $24.14 | [Chart](https://www.tradingview.com/chart/?symbol=FLBL) | Franklin Senior Loan ETF | FLBL |
-| 37 | 68 | $14.72 | [Chart](https://www.tradingview.com/chart/?symbol=DEI) | Douglas Emmett, Inc. | DEI |
-| 37 | 68 | $27.25 | [Chart](https://www.tradingview.com/chart/?symbol=FREL) | Fidelity MSCI Real Estate Index ETF | FREL |
-| 38 | 67 | $89.16 | [Chart](https://www.tradingview.com/chart/?symbol=VNQ) | Vanguard Real Estate ETF | VNQ |
-| 38 | 65 | $21.84 | [Chart](https://www.tradingview.com/chart/?symbol=DBC) | Invesco DB Commodity Index Tracking Fund | DBC |
+| 22 | 85 | $48.52 | [Chart](https://www.tradingview.com/chart/?symbol=FR) | First Industrial Realty Trust, Inc. | FR |
+| 22 | 85 | $29.75 | [Chart](https://www.tradingview.com/chart/?symbol=CNQ) | Canadian Natural Resources Limited | CNQ |
+| 24 | 85 | $14.59 | [Chart](https://www.tradingview.com/chart/?symbol=DEI) | Douglas Emmett, Inc. | DEI |
+| 24 | 85 | $106.30 | [Chart](https://www.tradingview.com/chart/?symbol=PLD) | PROLOGIS, INC. | PLD |
+| 16 | 84 | $126.39 | [Chart](https://www.tradingview.com/chart/?symbol=INGR) | Ingredion Incorporated | INGR |
+| 19 | 84 | $30.37 | [Chart](https://www.tradingview.com/chart/?symbol=EPRT) | Essential Properties Realty Trust, Inc. | EPRT |
+| 25 | 84 | $36.70 | [Chart](https://www.tradingview.com/chart/?symbol=PBA) | PEMBINA PIPELINE CORPORATION | PBA |
+| 27 | 84 | $17.10 | [Chart](https://www.tradingview.com/chart/?symbol=DOC) | Healthpeak Properties, Inc. | DOC |
+| 20 | 83 | $218.74 | [Chart](https://www.tradingview.com/chart/?symbol=SBAC) | SBA Communications Corp | SBAC |
+| 26 | 83 | $18.23 | [Chart](https://www.tradingview.com/chart/?symbol=EBF) | Ennis, Inc. | EBF |
+| 22 | 82 | $72.03 | [Chart](https://www.tradingview.com/chart/?symbol=NEE) | NextEra Energy, Inc. | NEE |
+| 27 | 82 | $19.93 | [Chart](https://www.tradingview.com/chart/?symbol=STWD) | STARWOOD PROPERTY TRUST, INC. | STWD |
+| 27 | 82 | $61.17 | [Chart](https://www.tradingview.com/chart/?symbol=UL) | Unilever plc | UL |
+| 26 | 81 | $123.10 | [Chart](https://www.tradingview.com/chart/?symbol=PSX) | PHILLIPS 66 | PSX |
+| 22 | 80 | $77.61 | [Chart](https://www.tradingview.com/chart/?symbol=MET) | MetLife, Inc. | MET |
+| 22 | 79 | $11.91 | [Chart](https://www.tradingview.com/chart/?symbol=CEPU) | Central Puerto S.A. American Depositary Shares (each represents ten Common Shares) | CEPU |
+| 24 | 79 | $69.62 | [Chart](https://www.tradingview.com/chart/?symbol=PYPL) | PayPal Holdings, Inc. Common Stock | PYPL |
+| 24 | 79 | $106.24 | [Chart](https://www.tradingview.com/chart/?symbol=XOM) | Exxon Mobil Corporation | XOM |
+| 25 | 79 | $13.72 | [Chart](https://www.tradingview.com/chart/?symbol=CIM) | Chimera Investment Corp. | CIM |
+| 27 | 79 | $21.14 | [Chart](https://www.tradingview.com/chart/?symbol=KIM) | Kimco Realty Corp. | KIM |
+| 23 | 78 | $179.40 | [Chart](https://www.tradingview.com/chart/?symbol=DOV) | Dover Corporation | DOV |
+| 28 | 78 | $11.96 | [Chart](https://www.tradingview.com/chart/?symbol=PBR) | PETROLEO BRASILEIRO S.A.-PETROBRAS ADS (REP 1 COMMON SHARE) | PBR |
+| 29 | 78 | $72.16 | [Chart](https://www.tradingview.com/chart/?symbol=ADC) | Agree Realty Corporation | ADC |
+| 29 | 78 | $14.80 | [Chart](https://www.tradingview.com/chart/?symbol=GBDC) | Golub Capital BDC, Inc. | GBDC |
+| 29 | 78 | $78.30 | [Chart](https://www.tradingview.com/chart/?symbol=ENTG) | Entegris Inc | ENTG |
+| 23 | 77 | $204.74 | [Chart](https://www.tradingview.com/chart/?symbol=AMT) | American Tower Corporation | AMT |
+| 31 | 77 | $89.31 | [Chart](https://www.tradingview.com/chart/?symbol=VNQ) | Vanguard Real Estate ETF | VNQ |
+| 34 | 77 | $37.33 | [Chart](https://www.tradingview.com/chart/?symbol=TMF) | Direxion Daily 20+ Year Treasury Bull 3X Shares (based on the NYSE 20 Year Plus Treasury Bond Index; symbol AXTWEN) | TMF |
+| 31 | 76 | $135.56 | [Chart](https://www.tradingview.com/chart/?symbol=VLO) | Valero Energy Corporation | VLO |
+| 28 | 75 | $41.15 | [Chart](https://www.tradingview.com/chart/?symbol=XLRE) | Real Estate Select Sector SPDR Fund | XLRE |
+| 33 | 75 | $56.17 | [Chart](https://www.tradingview.com/chart/?symbol=USRT) | iShares Core U.S. REIT ETF | USRT |
+| 26 | 74 | $746.75 | [Chart](https://www.tradingview.com/chart/?symbol=ASML) | ASML Holding NV | ASML |
+| 28 | 74 | $124.55 | [Chart](https://www.tradingview.com/chart/?symbol=XOP) | SPDR S&P Oil & Gas Exploration & Production ETF | XOP |
+| 30 | 74 | $85.52 | [Chart](https://www.tradingview.com/chart/?symbol=XLE) | Energy Select Sector SPDR Fund | XLE |
+| 31 | 74 | $53.39 | [Chart](https://www.tradingview.com/chart/?symbol=BALL) | Ball Corporation | BALL |
+| 34 | 74 | $22.67 | [Chart](https://www.tradingview.com/chart/?symbol=UCTT) | Ultra Clean Holdings, Inc. | UCTT |
+| 32 | 73 | $49.18 | [Chart](https://www.tradingview.com/chart/?symbol=BNDX) | Vanguard Total International Bond ETF | BNDX |
+| 35 | 72 | $12.15 | [Chart](https://www.tradingview.com/chart/?symbol=RQI) | COHEN & STEERS QUALITY INCOME REALTY FUND, INC. COMMON SHARES | RQI |
+| 39 | 70 | $21.35 | [Chart](https://www.tradingview.com/chart/?symbol=HAL) | Halliburton Company | HAL |
+| 32 | 68 | $85.29 | [Chart](https://www.tradingview.com/chart/?symbol=GGG) | Graco Inc | GGG |
+| 35 | 67 | $24.14 | [Chart](https://www.tradingview.com/chart/?symbol=FLBL) | Franklin Senior Loan ETF | FLBL |
+| 39 | 66 | $27.25 | [Chart](https://www.tradingview.com/chart/?symbol=FREL) | Fidelity MSCI Real Estate Index ETF | FREL |
+| 39 | 66 | $24.64 | [Chart](https://www.tradingview.com/chart/?symbol=SNDR) | Schneider National, Inc. | SNDR |
 
 ## **Methodology**
 
